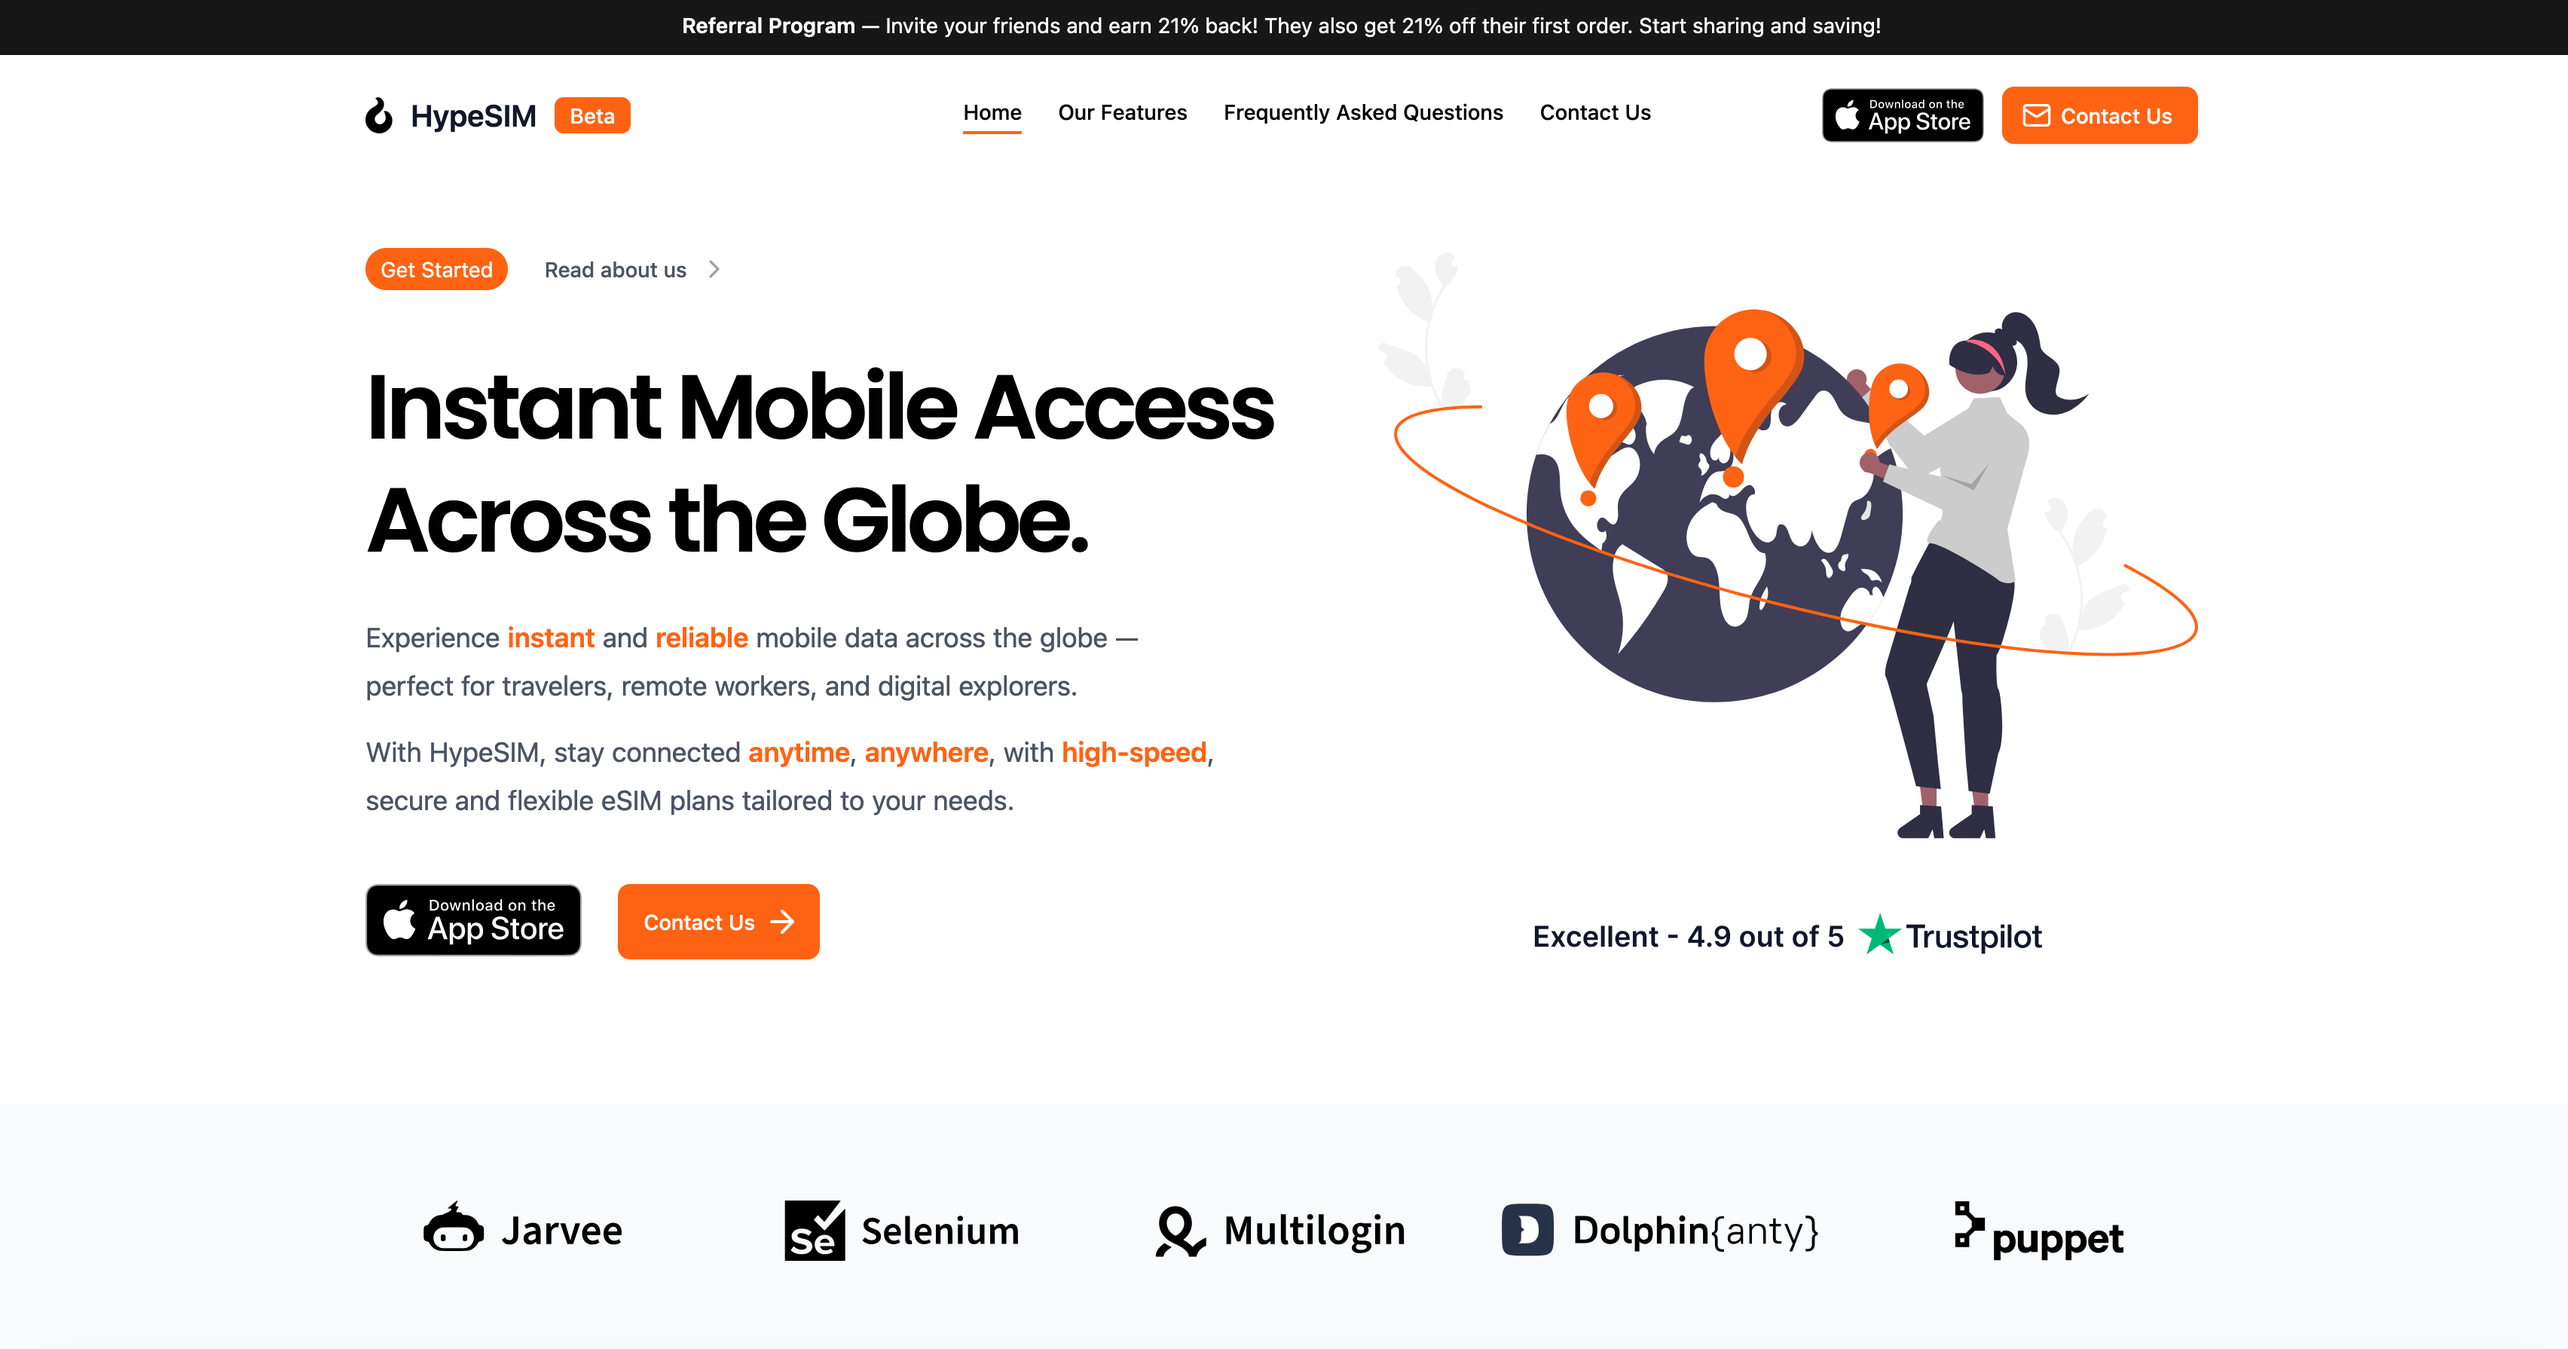
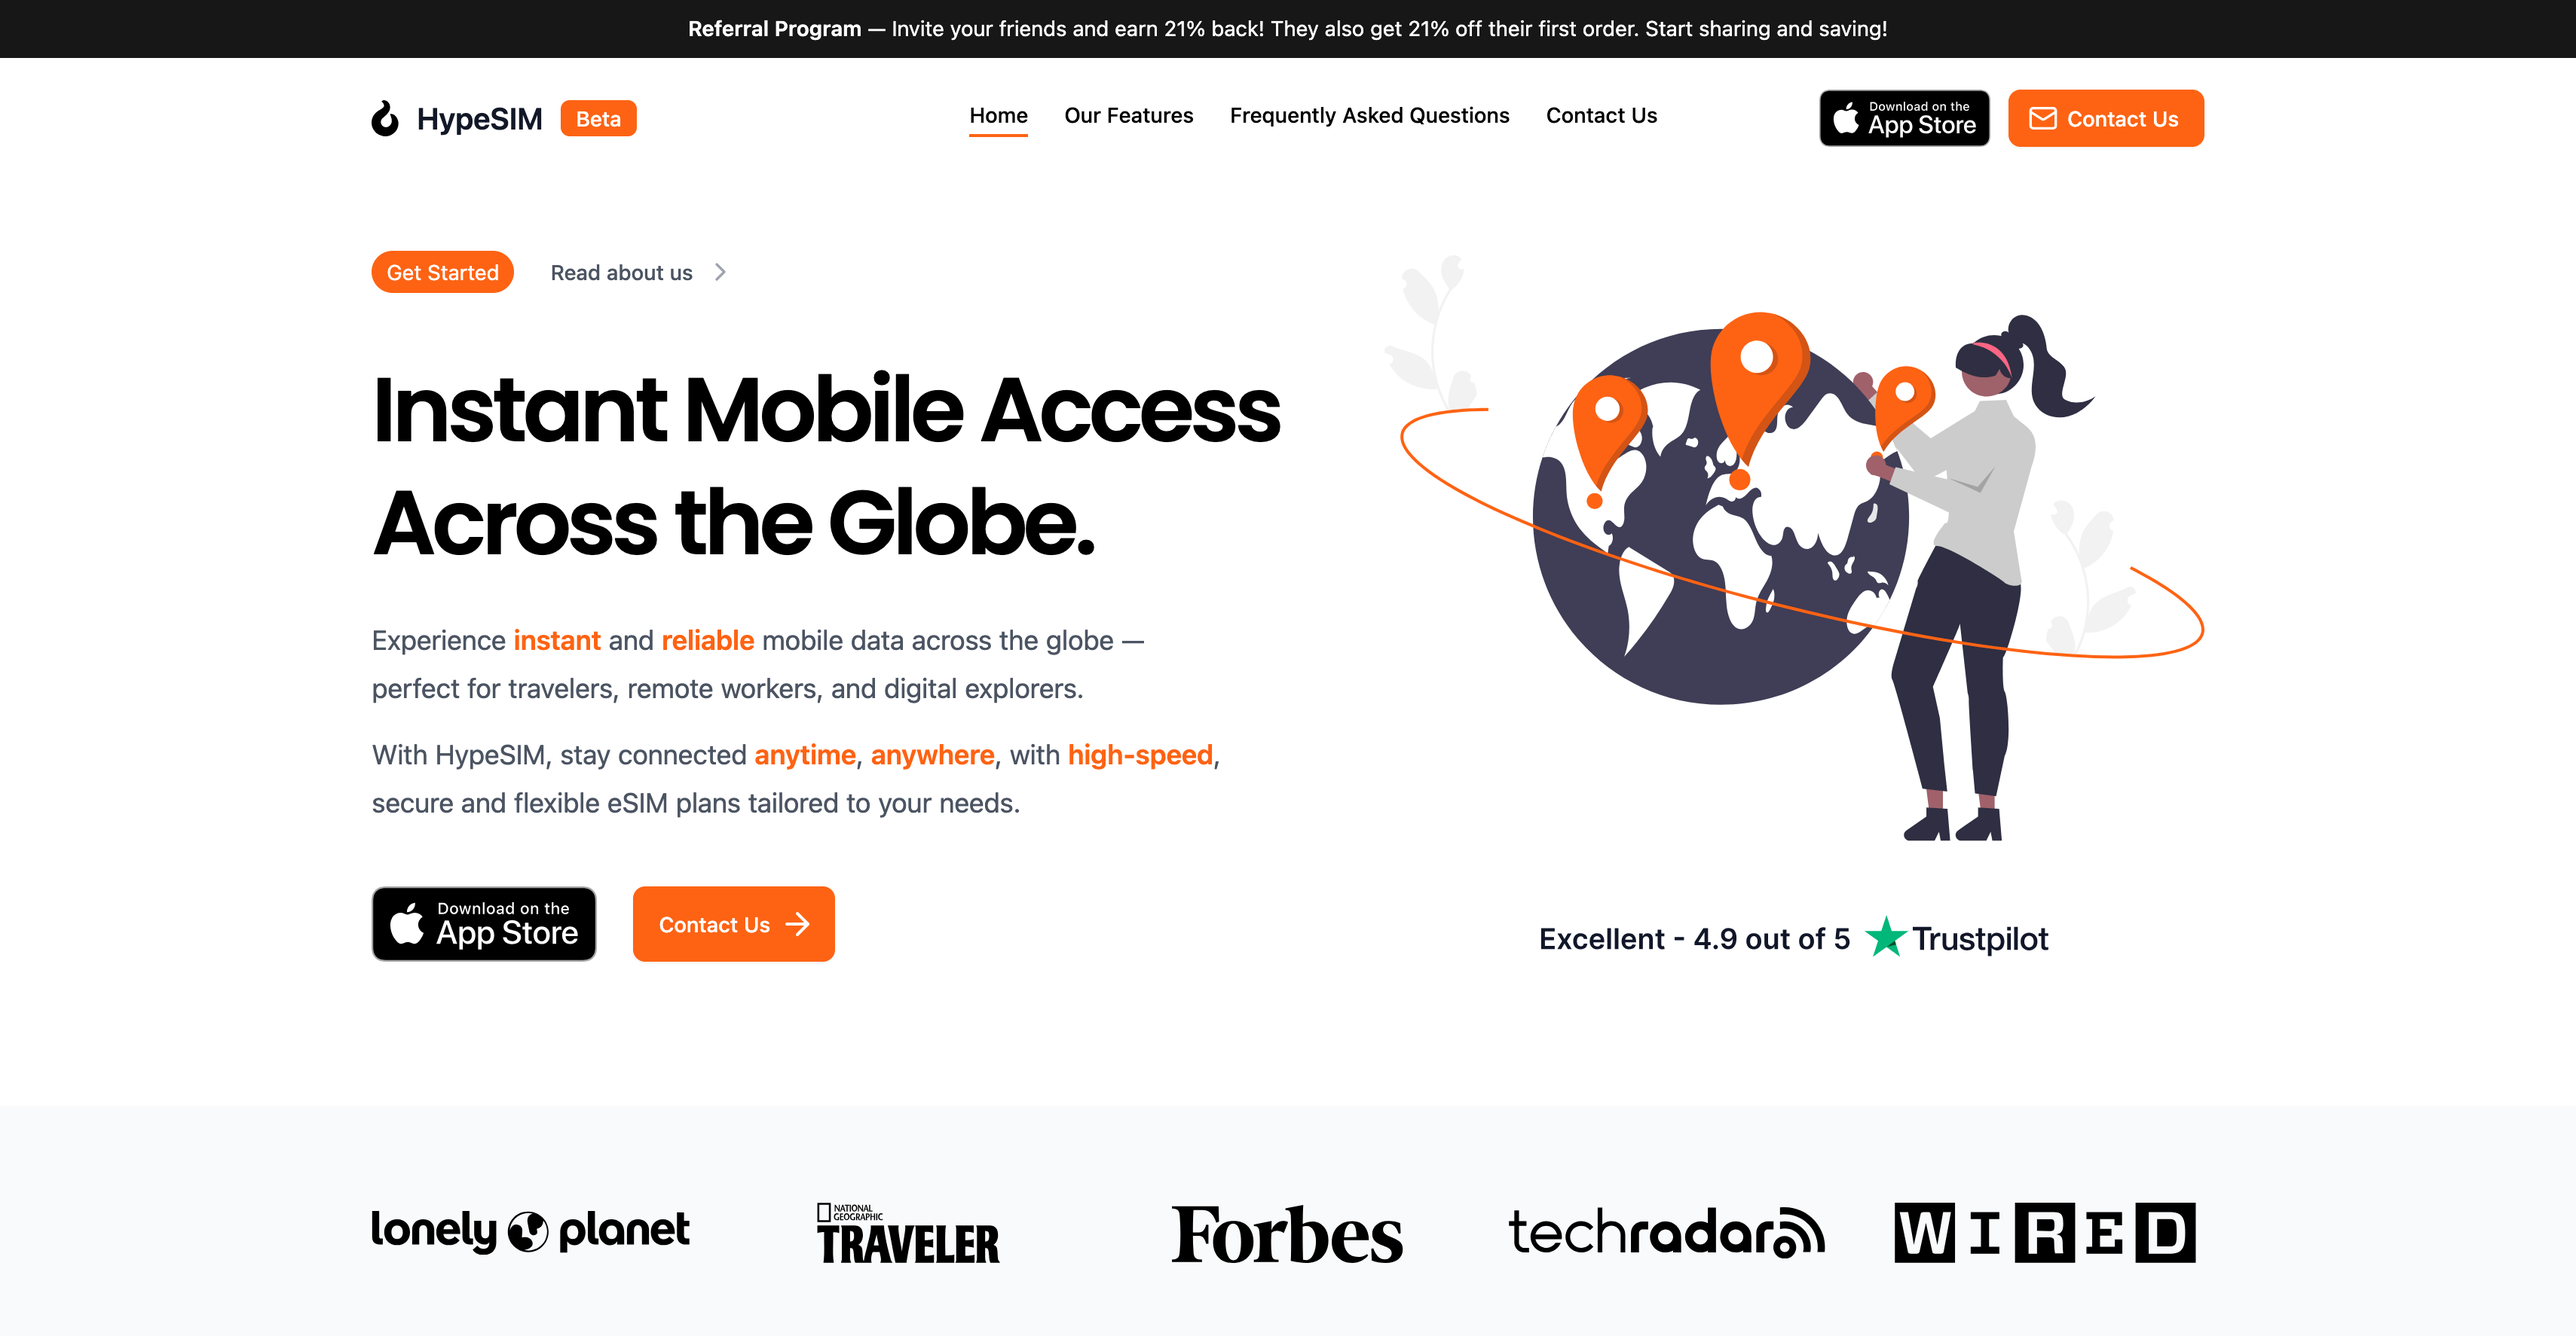
Update brand text and update image preview.

diff --git a/src/components/Slices/Brands.tsx b/src/components/Slices/Brands.tsx
@@ -31,7 +31,7 @@ export default function Brands () {
 				<div className="mt-16 flex justify-center">
 					<p className="relative rounded-full px-4 py-1.5 text-sm leading-6 text-gray-600 ring-1 ring-inset ring-gray-900/10 hover:ring-gray-900/20">
 						<span className="hidden md:inline">
-							Proxyware.io is the trusted proxy provider for 97% of Multilogin or Jarvee users.
+							HypeSIM.io is the trusted global provider of travel eSIMs for thousands of users worldwide.
 						</span>
 						<Link href="/#reviews" className="font-semibold text-primary">
 							<span className="absolute inset-0" aria-hidden="true" /> Read our case study{" "}
